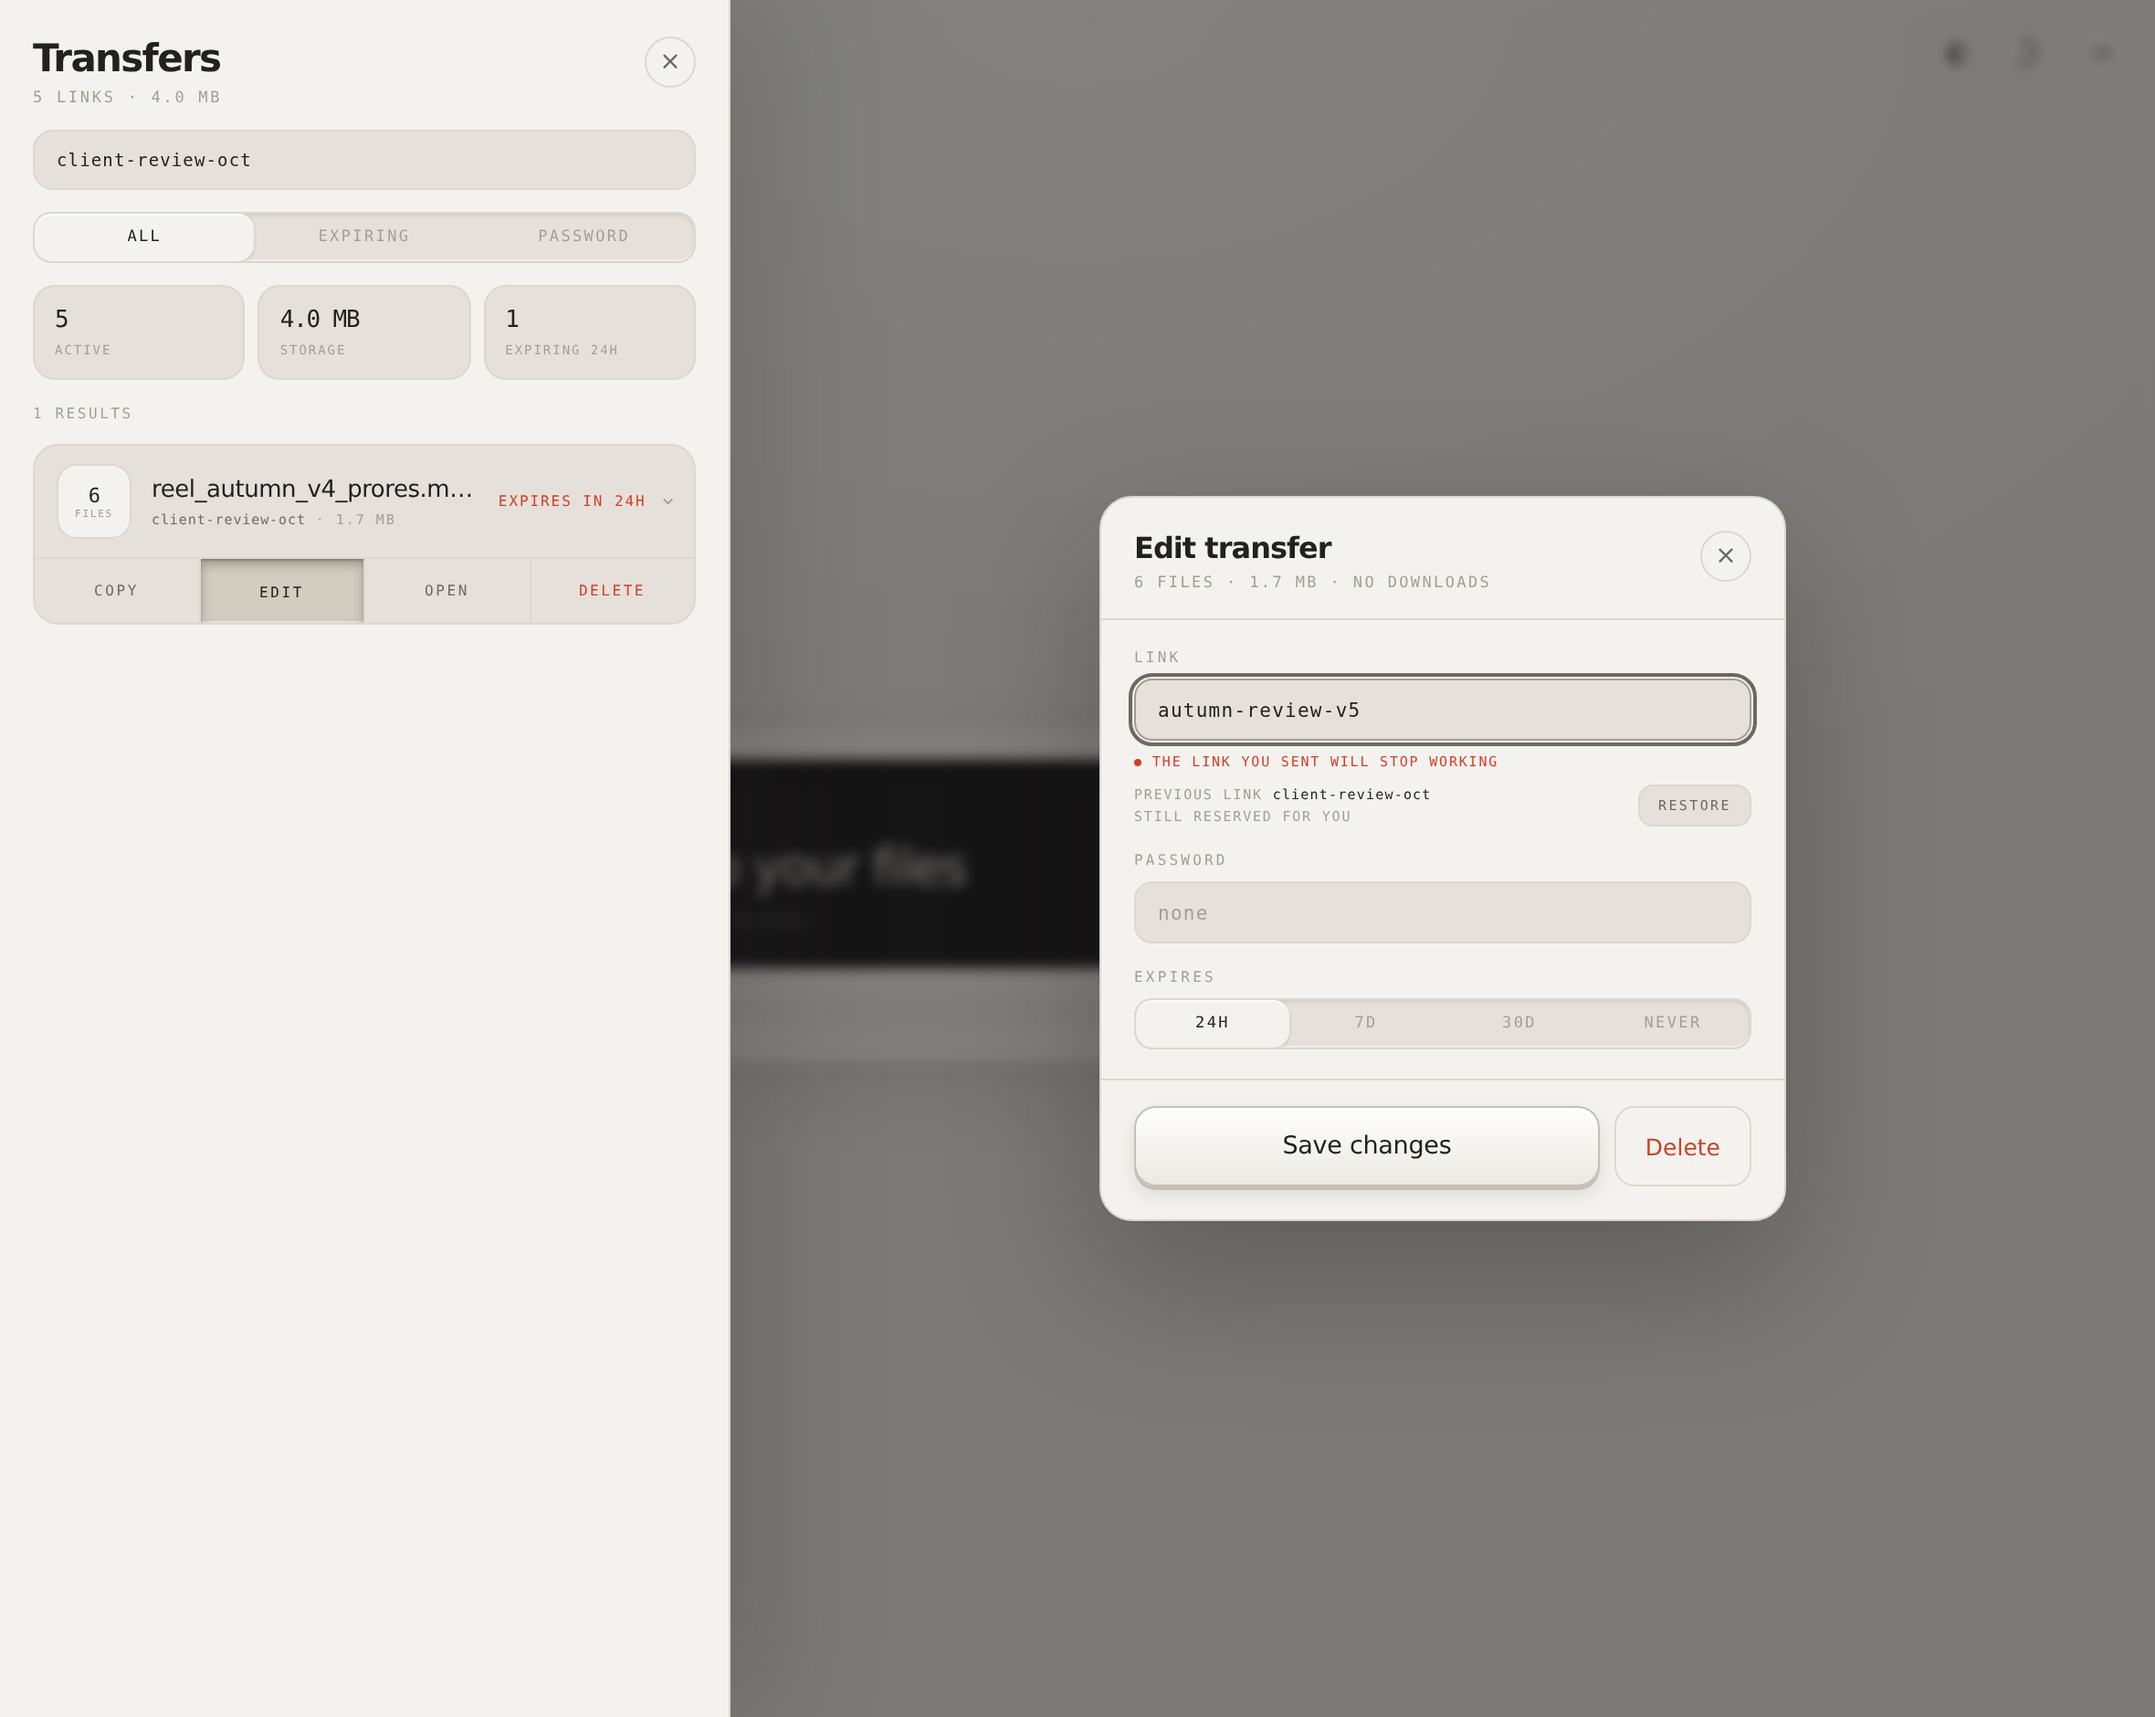
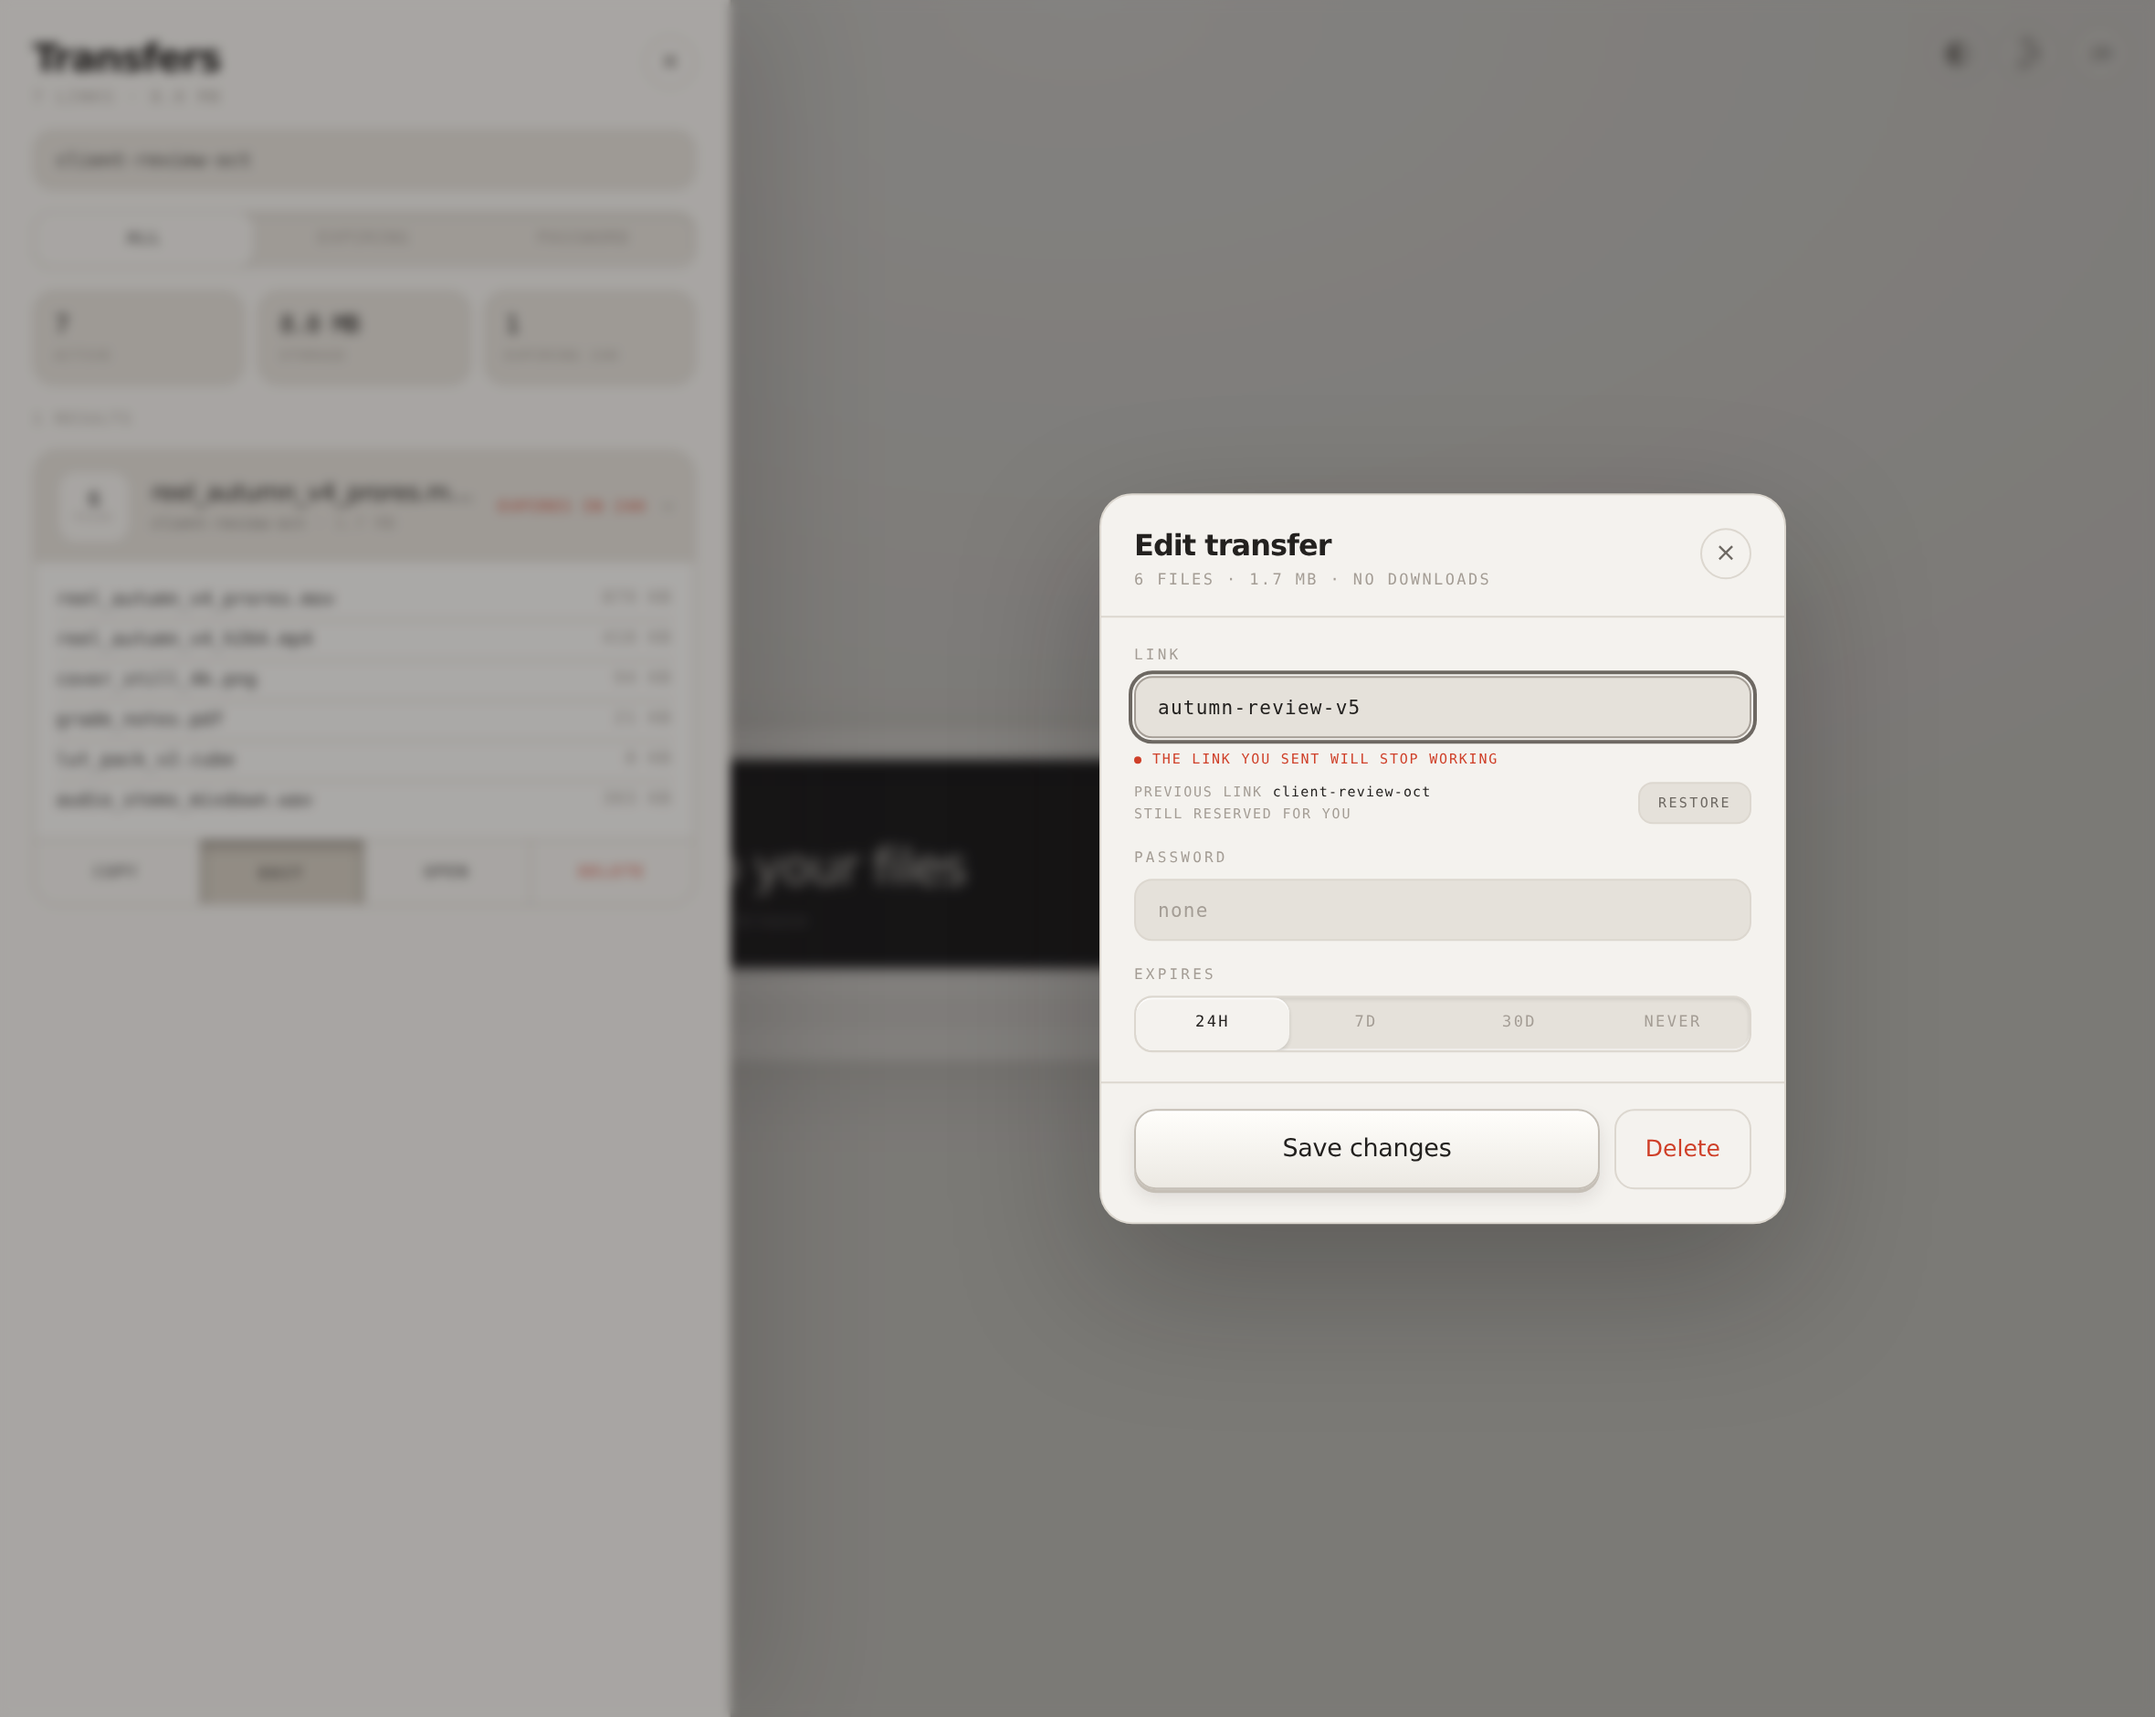
Let the editor open over the sheet, and bring the phone layout in
Editing a transfer on a phone cost four movements: the sheet sliding
out, the modal arriving, the keyboard rising, and the sheet sliding back
when you were done. Only one of those was the edit. The sheet was being
dismissed for a purely mechanical reason — the modal's scrim sat below
it in the stack and would otherwise have left it undimmed between the
two. The scrim goes above the sheet now, so the modal simply appears
over what you were already looking at and nothing else moves.

The rest is size. An earlier pass took the phone type up a step and it
came out chunky: at hand distance the labels did not need the help, and
enlarging them only made the one thing that genuinely cannot shrink look
less out of place by dragging everything else up to meet it. The answer
was the other way round. Type sits at most a half step above its desktop
size, and the paddings come in — the panel, the drawer, the keys, the
rows, the tiles, the stats, and the modal, which arrives with a keyboard
about to take the lower half of the screen and cannot afford slack.

The field stays at 16px. Below that iOS zooms the page when you focus
it and does not zoom back; it is quieted with tighter padding instead of
a smaller number.

Three of those rules had never applied. A media query carries no
specificity, so an equally specific rule further down the file beats it
whatever the viewport — and the drawer's padding, its engraved mark and
[…]

diff --git a/web/src/styles/sheet.css b/web/src/styles/sheet.css
@@ -23,7 +23,19 @@
   pointer-events: auto;
 }
 
+/*
+ * The modal's own scrim, which has to sit above the transfers sheet.
+ *
+ * The sheet used to be dismissed before the modal opened, purely because this
+ * scrim was underneath it and would otherwise have left the sheet undimmed
+ * between the two. On a phone that meant the sheet sliding out, the modal
+ * arriving, and the keyboard coming up behind it — three movements to edit
+ * one field, and the sheet sliding back in afterwards. Lifting the scrim over
+ * the sheet lets the modal simply appear on top of what you were looking at,
+ * and the sheet never moves.
+ */
 .fret-scrim--strong {
+  z-index: 65;
   background: var(--scrimStrong);
   backdrop-filter: blur(3px);
   -webkit-backdrop-filter: blur(3px);
@@ -718,17 +730,57 @@
   border-top: 1px solid var(--edge);
 }
 
-@media (max-width: 640px) {
-  .fret-modal__foot {
-    padding-bottom: max(18px, env(safe-area-inset-bottom));
-  }
-}
-
 .fret-modal__foot .fret-key {
   flex: 1;
   font-size: 13.5px;
   padding: 13px 16px;
 }
+
+/*
+ * The modal, tightened for a phone.
+ *
+ * These come after the rules they override rather than beside the layout
+ * block above: a media query adds no specificity, so an equally specific rule
+ * further down the file wins whatever the viewport is. That is exactly what
+ * happened the first time — the block was written, and did nothing.
+ *
+ * It arrives over the transfers sheet with the keyboard about to take the
+ * lower half of the screen, so every row of padding here is a row of the form
+ * pushed out of sight.
+ */
+@media (max-width: 640px) {
+  .fret-modal__head {
+    padding: 14px 14px 11px;
+  }
+
+  .fret-modal__title {
+    font-size: 15px;
+  }
+
+  .fret-modal__meta {
+    font-size: 8px;
+  }
+
+  .fret-modal__body {
+    padding: 13px 14px;
+    gap: 12px;
+  }
+
+  .fret-modal__field label {
+    margin-bottom: 5px;
+  }
+
+  .fret-modal__foot {
+    padding: 11px 14px;
+    padding-bottom: max(14px, env(safe-area-inset-bottom));
+  }
+
+  .fret-modal__foot .fret-key {
+    font-size: 13px;
+    padding: 12px 14px;
+  }
+}
+
 
 .fret-delete {
   background: var(--body);
@@ -861,25 +913,59 @@
   /* Same 16px floor as every other field, for the same reason. */
   .fret-sheet__search {
     font-size: 16px;
+    padding: 10px 12px;
   }
 
-  /* Nudged up with everything else, so the search field is not the largest
-     text on a screen whose whole job is the list beneath it. */
   .fret-row__title {
-    font-size: 14.5px;
+    font-size: 13px;
   }
 
   .fret-row__meta,
-  .fret-stat__label {
-    font-size: 8.5px;
-  }
-
+  .fret-stat__label,
   .fret-row__countdown,
   .fret-rowaction {
-    font-size: 9px;
+    font-size: 8px;
   }
 
   .fret-tile__unit {
-    font-size: 6.5px;
+    font-size: 6px;
+  }
+
+  /*
+   * Tighter all round. A phone shows fewer rows than a desktop to begin with,
+   * so every pixel of padding costs a fraction of the list — and the list is
+   * the whole reason the sheet exists.
+   */
+  .fret-sheet__body {
+    padding-left: 14px;
+    padding-right: 14px;
+    gap: 10px;
+  }
+
+  .fret-row__main {
+    gap: 9px;
+    padding: 9px 10px;
+  }
+
+  .fret-tile {
+    width: 36px;
+    height: 36px;
+    border-radius: 10px;
+  }
+
+  .fret-tile__count {
+    font-size: 10px;
+  }
+
+  .fret-rowaction {
+    padding: 11px 4px;
+  }
+
+  .fret-stat {
+    padding: 9px 10px;
+  }
+
+  .fret-stat__value {
+    font-size: 12px;
   }
 }

diff --git a/web/src/styles/controls.css b/web/src/styles/controls.css
@@ -274,8 +274,7 @@
 @media (max-width: 640px) {
   .fret-field {
     font-size: 16px;
-    letter-spacing: 0.02em;
-    padding: 11px 12px;
+    letter-spacing: 0.01em;
   }
 }
 
@@ -410,38 +409,6 @@
   /* Inside the track: the outline would otherwise be clipped by the overflow
      that keeps the handle in its channel. */
   outline-offset: -3px;
-}
-
-/*
- * The mono type, one step up on a phone.
- *
- * These sizes were set at arm's length on a desktop, where 7px tracked out is
- * a label and reads as texture. Held twelve inches from your face on a bus it
- * is just small. Nothing here is decorative — every one of them is a word you
- * are expected to act on — so on a narrow screen they each go up a step.
- *
- * A step, not a redesign: the ratio between them is what makes the drawer
- * read as one object with a hierarchy rather than a stack of unrelated
- * controls, and that survives only if they all move together.
- */
-@media (max-width: 640px) {
-  .fret-row__label,
-  .fret-popover__stackLabel {
-    font-size: 9px;
-  }
-
-  .fret-field__action {
-    font-size: 8px;
-  }
-
-  .fret-segmented__item {
-    font-size: 9.5px;
-    padding: 9px 4px;
-  }
-
-  .fret-tray__mark {
-    font-size: 7px;
-  }
 }
 
 /* ---------- popover ---------- */
@@ -937,4 +904,64 @@
   border-radius: 999px;
   background: var(--accent);
   flex-shrink: 0;
+}
+
+/*
+ * The mono type on a phone.
+ *
+ * Kept at the end of the file on purpose. A media query adds no specificity,
+ * so any equally specific rule below it wins regardless of the viewport —
+ * which is how the field action, the drawer's padding and its engraved mark
+ * were quietly ignoring this block until now.
+ *
+ * An earlier pass took all of this up a step and it came out chunky: at hand
+ * distance the labels did not need the help, and enlarging them only made the
+ * one thing that genuinely cannot shrink — the field, held at 16px because
+ * below that iOS zooms the page on focus — look less out of place by dragging
+ * everything else up to meet it. The answer was the other way round. These sit
+ * a half step above their desktop sizes at most, and the field is quieted with
+ * padding instead.
+ */
+@media (max-width: 640px) {
+  .fret-row__label,
+  .fret-popover__stackLabel {
+    font-size: 8px;
+  }
+
+  .fret-field__action {
+    font-size: 7px;
+    min-width: 68px;
+    border-radius: 9px;
+  }
+
+  .fret-segmented__item {
+    font-size: 8.5px;
+    padding: 7px 4px;
+  }
+
+  .fret-tray__mark {
+    font-size: 6.5px;
+  }
+
+  /*
+   * The field keeps its 16px, but stops looking like a text box on a form:
+   * tighter, with the value sitting closer to the label beside it.
+   */
+  .fret-field {
+    padding: 9px 11px;
+    border-radius: 9px;
+  }
+
+  .fret-row {
+    gap: 10px;
+    padding: 9px 0;
+  }
+
+  .fret-row__label {
+    width: 62px;
+  }
+
+  .fret-tray__inner {
+    padding: 12px 14px 13px;
+  }
 }

diff --git a/web/src/App.tsx b/web/src/App.tsx
@@ -33,7 +33,6 @@ export function App() {
    * like anything but a mistake.
    */
   const [narrow, setNarrow] = useState(() => window.matchMedia('(max-width: 640px)').matches)
-  const [sheetWasOpen, setSheetWasOpen] = useState(false)
   const [systemDark, setSystemDark] = useState(
     () => window.matchMedia('(prefers-color-scheme: dark)').matches,
   )
@@ -142,9 +141,16 @@ export function App() {
     window.open(`/${target}`, '_blank', 'noopener,noreferrer')
   }, [])
 
+  /*
+   * The editor opens over the sheet rather than in place of it.
+   *
+   * On a phone the sheet used to be dismissed first, because the modal's
+   * scrim sat underneath it. That made editing one field cost three
+   * movements — the sheet leaving, the modal arriving, the keyboard rising —
+   * and a fourth when the sheet slid back afterwards. The scrim now covers
+   * the sheet, so nothing has to move out of the way.
+   */
   const openEditor = (transfer: TransferSummary, action: EngagedAction['action']) => {
-    setSheetWasOpen(sheetOpen)
-    if (narrow) setSheetOpen(false)
     setEngaged({ id: transfer.id, action })
     setEditing(transfer)
   }
@@ -152,7 +158,6 @@ export function App() {
   const closeEditor = () => {
     setEditing(null)
     setEngaged(null)
-    if (narrow && sheetWasOpen) setSheetOpen(true)
   }
 
   const signOut = async () => {

diff --git a/web/src/styles/device.css b/web/src/styles/device.css
@@ -597,6 +597,25 @@
  * accident.
  */
 @media (max-width: 640px) {
+  /* The whole object comes in a little. A phone holds the device at arm's
+     reach in a much narrower frame, and the desktop paddings read as slack. */
+  .fret-panel {
+    padding: 14px;
+    gap: 13px;
+    border-radius: 18px;
+  }
+
+  .fret-key {
+    font-size: 13px;
+    padding: 12px 14px;
+    border-radius: 11px;
+  }
+
+  .fret-actions__primary {
+    font-size: 13px;
+    padding: 12px 14px;
+  }
+
   .fret-actions {
     display: grid;
     grid-template-columns: 1fr 1fr;
